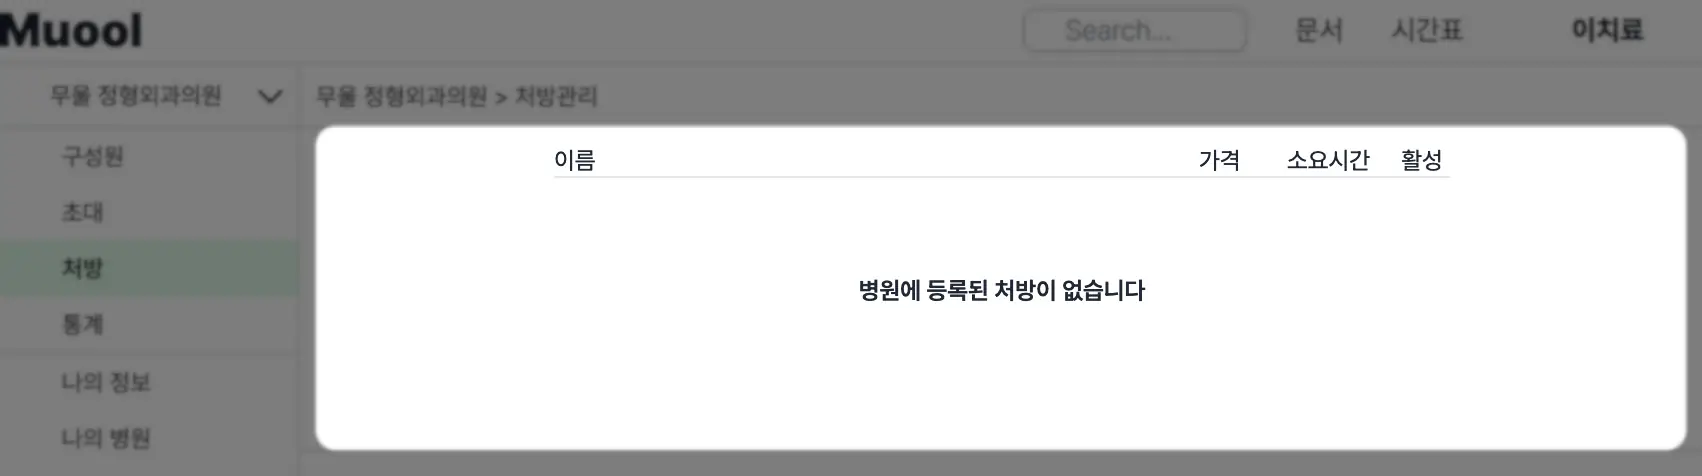
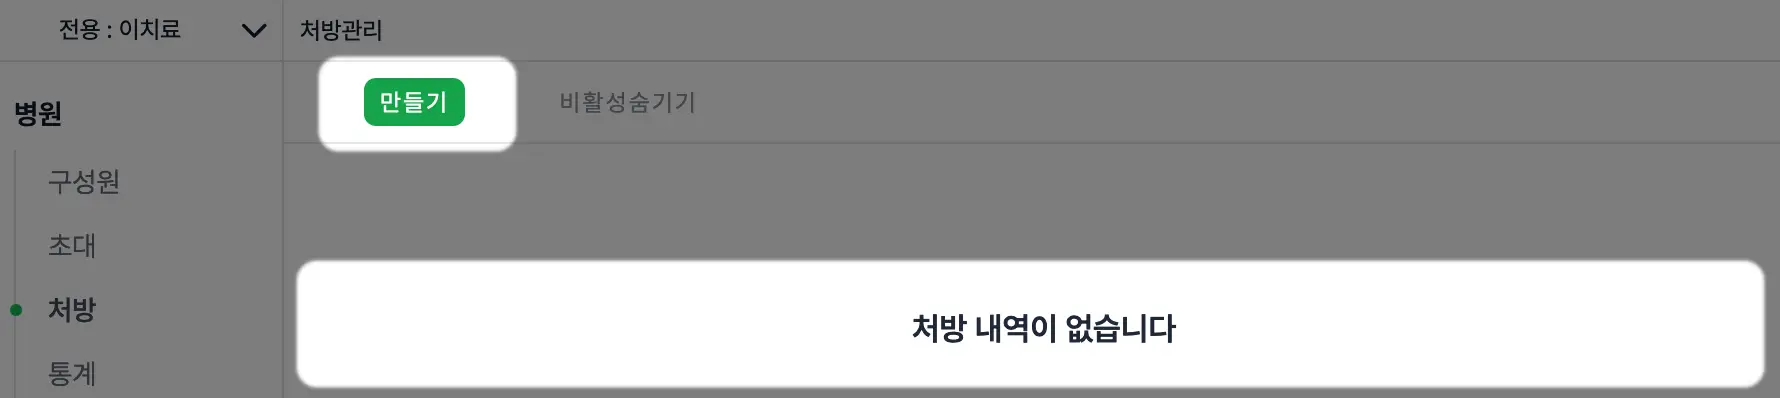
docs: 사용자 문서 처방 등록 이미지 교체
issue: #21

diff --git a/DEV.md b/DEV.md
@@ -106,5 +106,4 @@ datepicker 50
 
 - 가장자리 페더 반경 5.0
 - 둥근 모서리 반경 20.0
-- 가우시안 흐림 1번
 - 배경색 검정, 불투명 80
